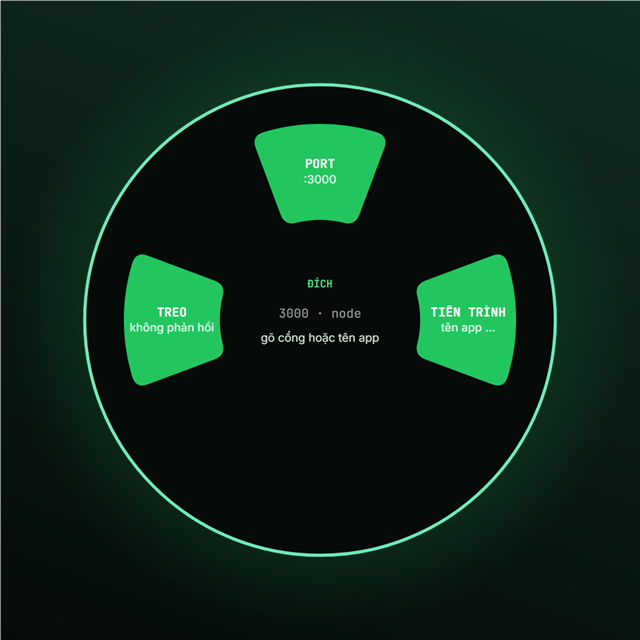
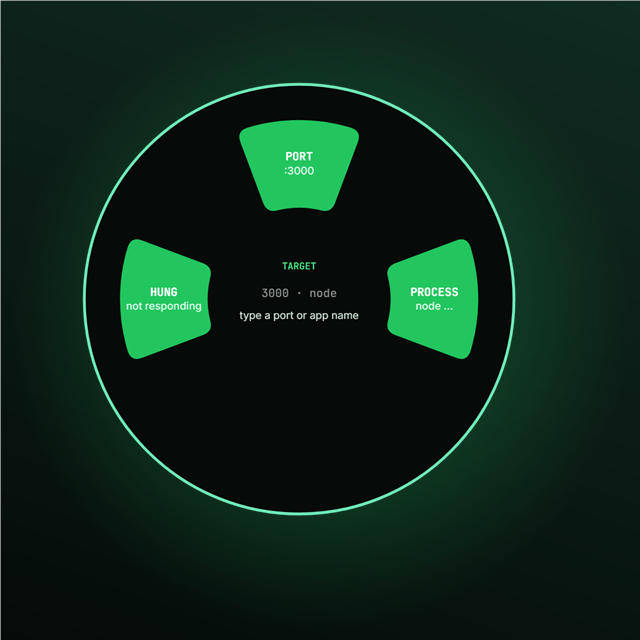
ui: browser preview ?lang=en for README screenshots

Changed region(s): [[0.125, 0.125, 0.875, 0.875], [0.1875, 0.375, 0.375, 0.625], [0.375, 0.1875, 0.625, 0.375]]

diff --git a/ui/app.js b/ui/app.js
@@ -452,6 +452,26 @@ listen("lang-changed", (e) => {
   if (input.value.trim()) runQuery();
 });
 
+// Browser preview (no Tauri backend): `?lang=en` renders the mock in English,
+// mirroring src/i18n.rs — used for README screenshots.
+const PREVIEW_EN = new URLSearchParams(location.search).get("lang") === "en";
+const PREVIEW_CFG = {
+  lang: "en",
+  core_label: "TARGET",
+  hint_idle: "type a port or app name",
+  hint_keys: "Enter kill · Esc close",
+  killing: "Killing…",
+  all_label: "ALL",
+  all_sub: "kill all",
+  query_failed: "Query failed",
+  kill_failed: "Couldn't kill",
+  mode_port: "PORT",
+  mode_proc: "PROCESS",
+  mode_proc_sub: "node …",
+  mode_hung: "HUNG",
+  mode_hung_sub: "not responding",
+};
+
 (async () => {
   try {
     const cfg = await invoke("ui_config");
@@ -469,7 +489,9 @@ listen("lang-changed", (e) => {
 })();
 
 function mockInvoke(cmd, args) {
-  if (cmd === "ui_config") return Promise.resolve({ ...DEFAULTS });
+  if (cmd === "ui_config") {
+    return Promise.resolve(PREVIEW_EN ? { ...PREVIEW_CFG } : { ...DEFAULTS });
+  }
   if (cmd === "hide_overlay") return Promise.resolve();
   if (cmd === "kill") {
     const pids = args?.pids || [];
@@ -485,7 +507,11 @@ function mockInvoke(cmd, args) {
     if (portMatch) {
       const port = Number(portMatch[1]);
       if (port === 5555) {
-        return Promise.resolve({ mode: "port", summary: "0 tiến trình · port 5555", rows: [] });
+        return Promise.resolve({
+          mode: "port",
+          summary: PREVIEW_EN ? "0 on port 5555" : "0 tiến trình · port 5555",
+          rows: [],
+        });
       }
       const count = port === 8080 ? 7 : port === 3000 ? 3 : 1;
       const names = ["node", "esbuild", "chrome", "Code", "explorer", "nginx", "python"];
@@ -496,14 +522,14 @@ function mockInvoke(cmd, args) {
       }));
       return Promise.resolve({
         mode: "port",
-        summary: `${count} tiến trình · port ${port}`,
+        summary: PREVIEW_EN ? `${count} on port ${port}` : `${count} tiến trình · port ${port}`,
         rows,
       });
     }
     if (raw.toLowerCase() === "hang") {
       return Promise.resolve({
         mode: "hang",
-        summary: "2 app đang treo",
+        summary: PREVIEW_EN ? "2 app(s) not responding" : "2 app đang treo",
         rows: [
           { pid: 4412, name: "explorer", ram_bytes: 210 * 1024 * 1024 },
           { pid: 9901, name: "Teams", ram_bytes: 380 * 1024 * 1024 },
@@ -511,7 +537,11 @@ function mockInvoke(cmd, args) {
       });
     }
     if (raw) {
-      return Promise.resolve({ mode: "name", summary: "0 tiến trình · 0 MB", rows: [] });
+      return Promise.resolve({
+        mode: "name",
+        summary: PREVIEW_EN ? "0 processes · 0 MB" : "0 tiến trình · 0 MB",
+        rows: [],
+      });
     }
     return Promise.resolve({ mode: null, summary: null, rows: [] });
   }

diff --git a/ui/dist/app.js b/ui/dist/app.js
@@ -453,6 +453,26 @@ listen("lang-changed", (e) => {
   if (input.value.trim()) runQuery();
 });
 
+// Browser preview (no Tauri backend): `?lang=en` renders the mock in English,
+// mirroring src/i18n.rs — used for README screenshots.
+const PREVIEW_EN = new URLSearchParams(location.search).get("lang") === "en";
+const PREVIEW_CFG = {
+  lang: "en",
+  core_label: "TARGET",
+  hint_idle: "type a port or app name",
+  hint_keys: "Enter kill · Esc close",
+  killing: "Killing…",
+  all_label: "ALL",
+  all_sub: "kill all",
+  query_failed: "Query failed",
+  kill_failed: "Couldn't kill",
+  mode_port: "PORT",
+  mode_proc: "PROCESS",
+  mode_proc_sub: "node …",
+  mode_hung: "HUNG",
+  mode_hung_sub: "not responding",
+};
+
 (async () => {
   try {
     const cfg = await invoke("ui_config");
@@ -470,7 +490,9 @@ listen("lang-changed", (e) => {
 })();
 
 function mockInvoke(cmd, args) {
-  if (cmd === "ui_config") return Promise.resolve({ ...DEFAULTS });
+  if (cmd === "ui_config") {
+    return Promise.resolve(PREVIEW_EN ? { ...PREVIEW_CFG } : { ...DEFAULTS });
+  }
   if (cmd === "hide_overlay") return Promise.resolve();
   if (cmd === "kill") {
     const pids = args?.pids || [];
@@ -486,7 +508,11 @@ function mockInvoke(cmd, args) {
     if (portMatch) {
       const port = Number(portMatch[1]);
       if (port === 5555) {
-        return Promise.resolve({ mode: "port", summary: "0 tiến trình · port 5555", rows: [] });
+        return Promise.resolve({
+          mode: "port",
+          summary: PREVIEW_EN ? "0 on port 5555" : "0 tiến trình · port 5555",
+          rows: [],
+        });
       }
       const count = port === 8080 ? 7 : port === 3000 ? 3 : 1;
       const names = ["node", "esbuild", "chrome", "Code", "explorer", "nginx", "python"];
@@ -497,14 +523,14 @@ function mockInvoke(cmd, args) {
       }));
       return Promise.resolve({
         mode: "port",
-        summary: `${count} tiến trình · port ${port}`,
+        summary: PREVIEW_EN ? `${count} on port ${port}` : `${count} tiến trình · port ${port}`,
         rows,
       });
     }
     if (raw.toLowerCase() === "hang") {
       return Promise.resolve({
         mode: "hang",
-        summary: "2 app đang treo",
+        summary: PREVIEW_EN ? "2 app(s) not responding" : "2 app đang treo",
         rows: [
           { pid: 4412, name: "explorer", ram_bytes: 210 * 1024 * 1024 },
           { pid: 9901, name: "Teams", ram_bytes: 380 * 1024 * 1024 },
@@ -512,7 +538,11 @@ function mockInvoke(cmd, args) {
       });
     }
     if (raw) {
-      return Promise.resolve({ mode: "name", summary: "0 tiến trình · 0 MB", rows: [] });
+      return Promise.resolve({
+        mode: "name",
+        summary: PREVIEW_EN ? "0 processes · 0 MB" : "0 tiến trình · 0 MB",
+        rows: [],
+      });
     }
     return Promise.resolve({ mode: null, summary: null, rows: [] });
   }
